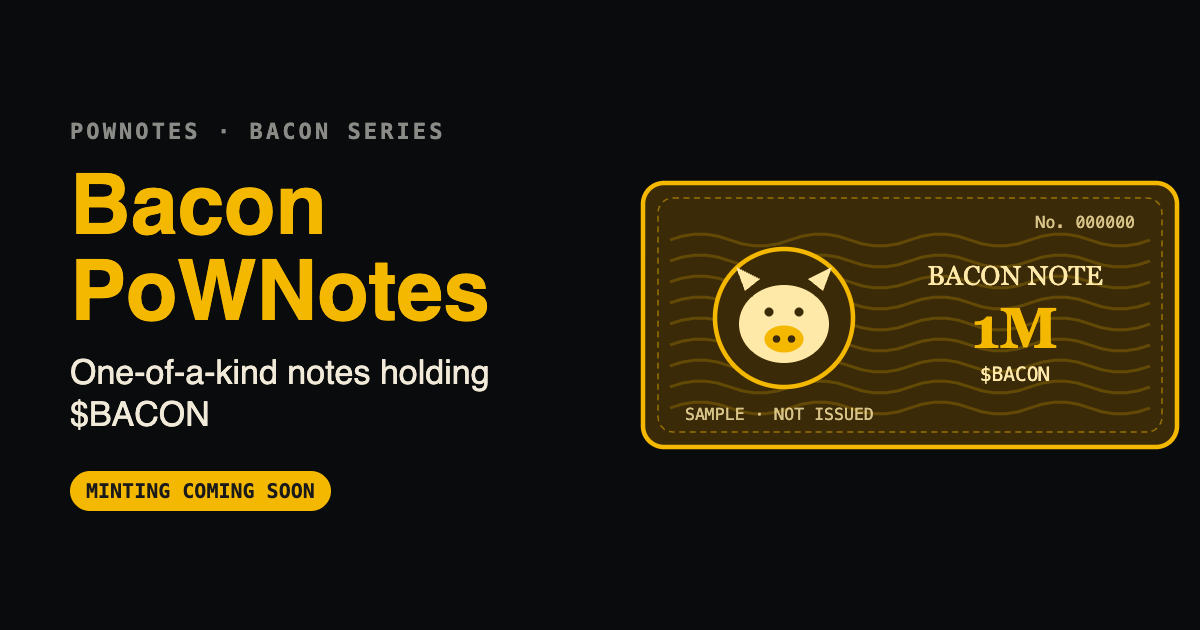
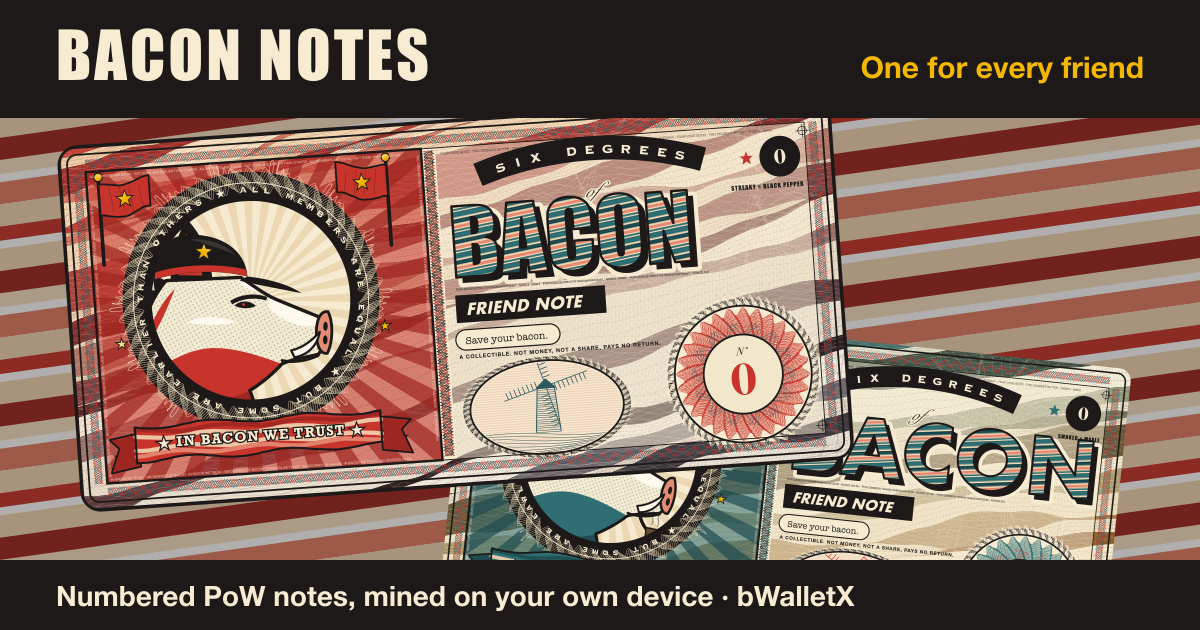
Bacon Notes: one per friend, propaganda-print art, live house samples, new share card (#192)
Drops face values, held $BACON and melting (not the live design). Status lines
match what is live: 10 $BACON on sign-up, notes per friend recorded, minting
coming soon.

diff --git a/pow-notes/bacon.html b/pow-notes/bacon.html
@@ -4,21 +4,21 @@
     <meta charset="utf-8" />
     <meta name="viewport" content="width=device-width, initial-scale=1" />
     <title>Bacon PoWNotes · bWalletX</title>
-    <meta name="description" content="Bacon Notes are one-of-a-kind PoWNotes holding 1K to 1M $BACON, a thank-you for bringing friends to bChatX. Minting coming soon." />
+    <meta name="description" content="Bacon Notes: numbered PoW notes, one for every friend who joins bChatX, and one more for each friend they bring. Mined on your own device. Minting coming soon." />
     <link rel="canonical" href="https://bwalletx.com/pow-notes/bacon" />
     <meta property="og:type" content="website" />
     <meta property="og:url" content="https://bwalletx.com/pow-notes/bacon" />
     <meta property="og:site_name" content="bWalletX" />
     <meta property="og:title" content="Bacon PoWNotes" />
-    <meta property="og:description" content="Bacon Notes are one-of-a-kind PoWNotes holding 1K to 1M $BACON, a thank-you for bringing friends to bChatX. Minting coming soon." />
-    <meta property="og:image" content="https://bwalletx.com/og/og-pow-notes-bacon.png" />
+    <meta property="og:description" content="Bacon Notes: numbered PoW notes, one for every friend who joins bChatX, and one more for each friend they bring. Mined on your own device. Minting coming soon." />
+    <meta property="og:image" content="https://bwalletx.com/og/og-pow-notes-bacon.png?v=2" />
     <meta property="og:image:width" content="1200" />
     <meta property="og:image:height" content="630" />
     <meta name="twitter:card" content="summary_large_image" />
     <meta name="twitter:site" content="@bWalletX" />
     <meta name="twitter:title" content="Bacon PoWNotes" />
-    <meta name="twitter:description" content="Bacon Notes are one-of-a-kind PoWNotes holding 1K to 1M $BACON, a thank-you for bringing friends to bChatX. Minting coming soon." />
-    <meta name="twitter:image" content="https://bwalletx.com/og/og-pow-notes-bacon.png" />
+    <meta name="twitter:description" content="Bacon Notes: numbered PoW notes, one for every friend who joins bChatX, and one more for each friend they bring. Mined on your own device. Minting coming soon." />
+    <meta name="twitter:image" content="https://bwalletx.com/og/og-pow-notes-bacon.png?v=2" />
     <link rel="icon" href="/favicon.ico" />
     <link rel="stylesheet" href="/styles.css" />
     <style>
@@ -72,7 +72,7 @@
     <main class="ext">
       <p class="kicker"><a href="/pow-notes">PoWNotes</a> · Bacon series</p>
       <h1>Bacon <i>PoWNotes</i>.</h1>
-      <p class="lede">One-of-a-kind banknote-style collectibles that hold their own $BACON. You get one for every 6 friends who claim their bChatX profile.</p>
+      <p class="lede">Numbered banknote-style collectibles. You get one Bacon Note for every friend who joins bChatX because of you, and one more each time one of their friends joins.</p>
 <style>.pn-feed{display:grid;grid-template-columns:repeat(auto-fill,minmax(min(100%,220px),1fr));gap:14px;margin:16px 0}.pn-feed>p{grid-column:1/-1}.pn-card{display:block;border:1px solid #ffffff14;border-radius:12px;background:#101114;padding:8px;color:#a7adb8;text-decoration:none;font-size:.82rem}.pn-card img{display:block;width:100%;height:auto;border-radius:8px;background:#0a0b0d;margin-bottom:6px}</style>
       <h2>Fresh from the Mint</h2>
       <div id="pn-feed" class="pn-feed" data-type="bacon-note"><p class="small">Loading…</p></div>
@@ -80,34 +80,40 @@
       <h2>What works today</h2>
       <ul class="status">
         <li><span class="tag live">Live</span><span>Syndicated bChatX profiles with <b>Claim it</b>, at <a href="https://bchatx.com/x/bWalletX">bchatx.com/x/&lt;handle&gt;</a></span></li>
-        <li><span class="tag">Not open yet</span><span>Claim rewards: bring 7 friends</span></li>
         <li><span class="tag live">Live</span><span>$BACON created on chain: 1,000,000,000 supply, held by The Bitcoin Corporation Mint (31 Oct 2026)</span></li>
+        <li><span class="tag live">Live</span><span>10 <a href="/bacon">$BACON</a> when you sign up to bChatX, paid out automatically</span></li>
+        <li><span class="tag live">Live</span><span>Bacon Notes earned for each friend are recorded to your account</span></li>
         <li><span class="tag live">Live</span><span>Bacon Note No. 1 minted: a test note, shown under Fresh from the Mint</span></li>
-        <li><span class="tag">Not open yet</span><span>Earning $BACON and Bacon Notes for friends who claim</span></li>
-        <li><span class="tag">Minting coming soon</span><span>PoWNotes</span></li>
+        <li><span class="tag">Minting coming soon</span><span>Minting your Bacon Notes, once the art is signed off</span></li>
       </ul>
-      <p class="small">$BACON exists and the first test note is minted. Earning them for friends is not open yet. We will tick each line here when it ships.</p>
+      <p class="small">Notes you earn are recorded now and minted when minting opens. We will tick each line here when it ships.</p>
       <div class="notes">
-        <figure><svg viewBox="0 0 360 180" width="360" style="max-width:100%;height:auto" role="img" aria-label="Sample Bacon Note design, 10K $BACON"><rect x="2" y="2" width="356" height="176" rx="14" fill="#2a1512" stroke="#e8a08c" stroke-width="3"/><rect x="12" y="12" width="336" height="156" rx="10" fill="none" stroke="#e8a08c" stroke-opacity=".5" stroke-dasharray="4 3"/><path d="M20 40 q20 -8 40 0 t40 0 t40 0 t40 0 t40 0 t40 0 t40 0 t40 0" fill="none" stroke="#e8a08c" stroke-opacity=".22" stroke-width="2"/><path d="M20 54 q20 -8 40 0 t40 0 t40 0 t40 0 t40 0 t40 0 t40 0 t40 0" fill="none" stroke="#e8a08c" stroke-opacity=".22" stroke-width="2"/><path d="M20 68 q20 -8 40 0 t40 0 t40 0 t40 0 t40 0 t40 0 t40 0 t40 0" fill="none" stroke="#e8a08c" stroke-opacity=".22" stroke-width="2"/><path d="M20 82 q20 -8 40 0 t40 0 t40 0 t40 0 t40 0 t40 0 t40 0 t40 0" fill="none" stroke="#e8a08c" stroke-opacity=".22" stroke-width="2"/><path d="M20 96 q20 -8 40 0 t40 0 t40 0 t40 0 t40 0 t40 0 t40 0 t40 0" fill="none" stroke="#e8a08c" stroke-opacity=".22" stroke-width="2"/><path d="M20 110 q20 -8 40 0 t40 0 t40 0 t40 0 t40 0 t40 0 t40 0 t40 0" fill="none" stroke="#e8a08c" stroke-opacity=".22" stroke-width="2"/><path d="M20 124 q20 -8 40 0 t40 0 t40 0 t40 0 t40 0 t40 0 t40 0 t40 0" fill="none" stroke="#e8a08c" stroke-opacity=".22" stroke-width="2"/><path d="M20 138 q20 -8 40 0 t40 0 t40 0 t40 0 t40 0 t40 0 t40 0 t40 0" fill="none" stroke="#e8a08c" stroke-opacity=".22" stroke-width="2"/><path d="M20 152 q20 -8 40 0 t40 0 t40 0 t40 0 t40 0 t40 0 t40 0 t40 0" fill="none" stroke="#e8a08c" stroke-opacity=".22" stroke-width="2"/><circle cx="96" cy="92" r="46" fill="#2a1512" stroke="#e8a08c" stroke-width="3"/><ellipse cx="96" cy="96" rx="30" ry="26" fill="#f6d3c4"/><path d="M70 74 l-6 -16 l16 8z M122 74 l6 -16 l-16 8z" fill="#f6d3c4"/><ellipse cx="96" cy="106" rx="13" ry="9" fill="#e8a08c"/><circle cx="91" cy="106" r="2.5" fill="#2a1512"/><circle cx="101" cy="106" r="2.5" fill="#2a1512"/><circle cx="86" cy="88" r="3" fill="#2a1512"/><circle cx="106" cy="88" r="3" fill="#2a1512"/><text x="250" y="70" text-anchor="middle" font-family="Georgia,serif" font-size="18" fill="#f6d3c4">BACON NOTE</text><text x="250" y="112" text-anchor="middle" font-family="Georgia,serif" font-weight="700" font-size="38" fill="#e8a08c">10K</text><text x="250" y="134" text-anchor="middle" font-family="monospace" font-size="13" fill="#f6d3c4">$BACON</text><text x="30" y="160" font-family="monospace" font-size="11" fill="#f6d3c4" fill-opacity=".8">SAMPLE · NOT ISSUED</text><text x="330" y="32" text-anchor="end" font-family="monospace" font-size="11" fill="#f6d3c4" fill-opacity=".8">No. 000000</text></svg><figcaption>A sample design. Real notes carry their own serial.</figcaption></figure>
-        <figure><svg viewBox="0 0 360 180" width="360" style="max-width:100%;height:auto" role="img" aria-label="Sample Bacon Note design, 1M $BACON"><rect x="2" y="2" width="356" height="176" rx="14" fill="#3a2a08" stroke="#F5B800" stroke-width="3"/><rect x="12" y="12" width="336" height="156" rx="10" fill="none" stroke="#F5B800" stroke-opacity=".5" stroke-dasharray="4 3"/><path d="M20 40 q20 -8 40 0 t40 0 t40 0 t40 0 t40 0 t40 0 t40 0 t40 0" fill="none" stroke="#F5B800" stroke-opacity=".22" stroke-width="2"/><path d="M20 54 q20 -8 40 0 t40 0 t40 0 t40 0 t40 0 t40 0 t40 0 t40 0" fill="none" stroke="#F5B800" stroke-opacity=".22" stroke-width="2"/><path d="M20 68 q20 -8 40 0 t40 0 t40 0 t40 0 t40 0 t40 0 t40 0 t40 0" fill="none" stroke="#F5B800" stroke-opacity=".22" stroke-width="2"/><path d="M20 82 q20 -8 40 0 t40 0 t40 0 t40 0 t40 0 t40 0 t40 0 t40 0" fill="none" stroke="#F5B800" stroke-opacity=".22" stroke-width="2"/><path d="M20 96 q20 -8 40 0 t40 0 t40 0 t40 0 t40 0 t40 0 t40 0 t40 0" fill="none" stroke="#F5B800" stroke-opacity=".22" stroke-width="2"/><path d="M20 110 q20 -8 40 0 t40 0 t40 0 t40 0 t40 0 t40 0 t40 0 t40 0" fill="none" stroke="#F5B800" stroke-opacity=".22" stroke-width="2"/><path d="M20 124 q20 -8 40 0 t40 0 t40 0 t40 0 t40 0 t40 0 t40 0 t40 0" fill="none" stroke="#F5B800" stroke-opacity=".22" stroke-width="2"/><path d="M20 138 q20 -8 40 0 t40 0 t40 0 t40 0 t40 0 t40 0 t40 0 t40 0" fill="none" stroke="#F5B800" stroke-opacity=".22" stroke-width="2"/><path d="M20 152 q20 -8 40 0 t40 0 t40 0 t40 0 t40 0 t40 0 t40 0 t40 0" fill="none" stroke="#F5B800" stroke-opacity=".22" stroke-width="2"/><circle cx="96" cy="92" r="46" fill="#3a2a08" stroke="#F5B800" stroke-width="3"/><ellipse cx="96" cy="96" rx="30" ry="26" fill="#ffe9a8"/><path d="M70 74 l-6 -16 l16 8z M122 74 l6 -16 l-16 8z" fill="#ffe9a8"/><ellipse cx="96" cy="106" rx="13" ry="9" fill="#F5B800"/><circle cx="91" cy="106" r="2.5" fill="#3a2a08"/><circle cx="101" cy="106" r="2.5" fill="#3a2a08"/><circle cx="86" cy="88" r="3" fill="#3a2a08"/><circle cx="106" cy="88" r="3" fill="#3a2a08"/><text x="250" y="70" text-anchor="middle" font-family="Georgia,serif" font-size="18" fill="#ffe9a8">BACON NOTE</text><text x="250" y="112" text-anchor="middle" font-family="Georgia,serif" font-weight="700" font-size="38" fill="#F5B800">1M</text><text x="250" y="134" text-anchor="middle" font-family="monospace" font-size="13" fill="#ffe9a8">$BACON</text><text x="30" y="160" font-family="monospace" font-size="11" fill="#ffe9a8" fill-opacity=".8">SAMPLE · NOT ISSUED</text><text x="330" y="32" text-anchor="end" font-family="monospace" font-size="11" fill="#ffe9a8" fill-opacity=".8">No. 000000</text></svg><figcaption>A sample golden note. Golden and misprint notes are rare.</figcaption></figure>
+        <figure><img src="https://www.bchatx.com/api/bacon/showcase?n=0" alt="Bacon Note, house sample 1 of 6" width="600" height="300" loading="lazy" style="width:100%;height:auto;border-radius:10px" /></figure>
+        <figure><img src="https://www.bchatx.com/api/bacon/showcase?n=1" alt="Bacon Note, house sample 2 of 6" width="600" height="300" loading="lazy" style="width:100%;height:auto;border-radius:10px" /></figure>
+        <figure><img src="https://www.bchatx.com/api/bacon/showcase?n=2" alt="Bacon Note, house sample 3 of 6" width="600" height="300" loading="lazy" style="width:100%;height:auto;border-radius:10px" /></figure>
+        <figure><img src="https://www.bchatx.com/api/bacon/showcase?n=3" alt="Bacon Note, house sample 4 of 6" width="600" height="300" loading="lazy" style="width:100%;height:auto;border-radius:10px" /></figure>
+        <figure><img src="https://www.bchatx.com/api/bacon/showcase?n=4" alt="Bacon Note, house sample 5 of 6" width="600" height="300" loading="lazy" style="width:100%;height:auto;border-radius:10px" /></figure>
+        <figure><img src="https://www.bchatx.com/api/bacon/showcase?n=5" alt="Bacon Note, house sample 6 of 6" width="600" height="300" loading="lazy" style="width:100%;height:auto;border-radius:10px" /></figure>
       </div>
+      <p class="small">Six real house notes, all No. 0, drawn by the same generator your notes use.</p>
       <h2>The design</h2>
       <ul>
-        <li>Rasher guilloche and filigree, a pig portrait and a serial number.</li>
-        <li>Face values: 1K, 10K, 100K and 1M <a href="/bacon">$BACON</a>.</li>
-        <li>Rare golden notes and misprints.</li>
+        <li>A propaganda-print banknote, screen-printed on streaky bacon. The Leader, a boar, wears a cap, beret, ushanka or top hat.</li>
+        <li>Six colourways blended in pairs and eight typefaces, so no two notes look quite alike.</li>
+        <li>Golden notes turn up 1 in 50, misprints 1 in 100.</li>
+        <li>Every Bacon Note is the same kind of note. Only its number and its art differ. Numbers go first come, first served.</li>
       </ul>
       <h2>How a PoWNote works</h2>
       <ul>
-        <li><b>It holds its value.</b> Each note is a 1Sat NFT, and its coin holds the note&rsquo;s $BACON.</li>
-        <li><b>Send it like cash.</b> When you send a note, the person you send it to gets a new edition, and you keep a shell with no value in it.</li>
-        <li><b>Melt it.</b> Melting a note returns the value it holds.</li>
+        <li><b>Mined on your device.</b> Your own phone or computer mines the proof of work for your note.</li>
+        <li><b>The hash draws the art.</b> The proof-of-work hash seeds the design, so the picture comes from your own work.</li>
+        <li><b>A collectible.</b> Each note is a 1Sat NFT. It is not money, not a share, and pays no return.</li>
         <li><b>Yours alone.</b> Once a note is issued, only the holder controls it. We cannot move it for you.</li>
       </ul>
       <h2>How you know a note is genuine</h2>
       <p>Official PoWNotes, including Bacon Notes, are issued only by The Bitcoin Corporation Mint. That is how you know they are genuine.</p>
       <ul>
-        <li>The Mint signs each note&rsquo;s origin, serial and face value together.</li>
+        <li>The Mint signs each note&rsquo;s origin and serial together.</li>
         <li>A note is genuine only if its on-chain origin is in the Mint&rsquo;s signed registry.</li>
         <li>Copies and duplicate serials are refused.</li>
         <li>Fakes are never delivered, never shown as genuine and never listed on our markets. If one is shown at all, it carries the label &ldquo;Not issued by The Bitcoin Corporation Mint&rdquo;.</li>

diff --git a/bacon.html b/bacon.html
@@ -89,16 +89,16 @@
       <h2>$BACON</h2>
       <p>$BACON is a BSV-21 memecoin with a supply of 1,000,000,000. You get $BACON for each friend you bring who claims their profile. It is a collectible and a thank-you, nothing more.</p>
       <h2>Bacon Notes</h2>
-      <p>Bacon Notes are one-of-a-kind, banknote-style collectibles. You get one for every 6 friends who claim their profile.</p>
+      <p>Bacon Notes are numbered, banknote-style collectibles. You get one for every friend who joins bChatX because of you, and one more each time one of their friends joins.</p>
       <ul>
-        <li>Rasher guilloche and filigree, a pig portrait and a serial number on every note.</li>
-        <li>Face values of 1K, 10K, 100K and 1M $BACON.</li>
-        <li>Rare golden notes and misprints.</li>
-        <li>Each note holds its $BACON, just like a <a href="/pow-notes">PoWNote</a>.</li>
+        <li>A propaganda-print banknote on streaky bacon, with the Leader, a boar, in a cap, beret, ushanka or top hat.</li>
+        <li>Mined on your own device: the proof-of-work hash seeds the art.</li>
+        <li>Golden notes 1 in 50, misprints 1 in 100. Every note is the same kind of note; only the number and the art differ.</li>
+        <li>Minting coming soon. See <a href="/pow-notes/bacon">Bacon Notes</a>.</li>
       </ul>
       <div class="notes">
-        <figure><svg viewBox="0 0 360 180" width="360" style="max-width:100%;height:auto" role="img" aria-label="Sample Bacon Note design, 10K $BACON"><rect x="2" y="2" width="356" height="176" rx="14" fill="#2a1512" stroke="#e8a08c" stroke-width="3"/><rect x="12" y="12" width="336" height="156" rx="10" fill="none" stroke="#e8a08c" stroke-opacity=".5" stroke-dasharray="4 3"/><path d="M20 40 q20 -8 40 0 t40 0 t40 0 t40 0 t40 0 t40 0 t40 0 t40 0" fill="none" stroke="#e8a08c" stroke-opacity=".22" stroke-width="2"/><path d="M20 54 q20 -8 40 0 t40 0 t40 0 t40 0 t40 0 t40 0 t40 0 t40 0" fill="none" stroke="#e8a08c" stroke-opacity=".22" stroke-width="2"/><path d="M20 68 q20 -8 40 0 t40 0 t40 0 t40 0 t40 0 t40 0 t40 0 t40 0" fill="none" stroke="#e8a08c" stroke-opacity=".22" stroke-width="2"/><path d="M20 82 q20 -8 40 0 t40 0 t40 0 t40 0 t40 0 t40 0 t40 0 t40 0" fill="none" stroke="#e8a08c" stroke-opacity=".22" stroke-width="2"/><path d="M20 96 q20 -8 40 0 t40 0 t40 0 t40 0 t40 0 t40 0 t40 0 t40 0" fill="none" stroke="#e8a08c" stroke-opacity=".22" stroke-width="2"/><path d="M20 110 q20 -8 40 0 t40 0 t40 0 t40 0 t40 0 t40 0 t40 0 t40 0" fill="none" stroke="#e8a08c" stroke-opacity=".22" stroke-width="2"/><path d="M20 124 q20 -8 40 0 t40 0 t40 0 t40 0 t40 0 t40 0 t40 0 t40 0" fill="none" stroke="#e8a08c" stroke-opacity=".22" stroke-width="2"/><path d="M20 138 q20 -8 40 0 t40 0 t40 0 t40 0 t40 0 t40 0 t40 0 t40 0" fill="none" stroke="#e8a08c" stroke-opacity=".22" stroke-width="2"/><path d="M20 152 q20 -8 40 0 t40 0 t40 0 t40 0 t40 0 t40 0 t40 0 t40 0" fill="none" stroke="#e8a08c" stroke-opacity=".22" stroke-width="2"/><circle cx="96" cy="92" r="46" fill="#2a1512" stroke="#e8a08c" stroke-width="3"/><ellipse cx="96" cy="96" rx="30" ry="26" fill="#f6d3c4"/><path d="M70 74 l-6 -16 l16 8z M122 74 l6 -16 l-16 8z" fill="#f6d3c4"/><ellipse cx="96" cy="106" rx="13" ry="9" fill="#e8a08c"/><circle cx="91" cy="106" r="2.5" fill="#2a1512"/><circle cx="101" cy="106" r="2.5" fill="#2a1512"/><circle cx="86" cy="88" r="3" fill="#2a1512"/><circle cx="106" cy="88" r="3" fill="#2a1512"/><text x="250" y="70" text-anchor="middle" font-family="Georgia,serif" font-size="18" fill="#f6d3c4">BACON NOTE</text><text x="250" y="112" text-anchor="middle" font-family="Georgia,serif" font-weight="700" font-size="38" fill="#e8a08c">10K</text><text x="250" y="134" text-anchor="middle" font-family="monospace" font-size="13" fill="#f6d3c4">$BACON</text><text x="30" y="160" font-family="monospace" font-size="11" fill="#f6d3c4" fill-opacity=".8">SAMPLE · NOT ISSUED</text><text x="330" y="32" text-anchor="end" font-family="monospace" font-size="11" fill="#f6d3c4" fill-opacity=".8">No. 000000</text></svg><figcaption>A sample design. Real notes carry their own serial.</figcaption></figure>
-        <figure><svg viewBox="0 0 360 180" width="360" style="max-width:100%;height:auto" role="img" aria-label="Sample Bacon Note design, 1M $BACON"><rect x="2" y="2" width="356" height="176" rx="14" fill="#3a2a08" stroke="#F5B800" stroke-width="3"/><rect x="12" y="12" width="336" height="156" rx="10" fill="none" stroke="#F5B800" stroke-opacity=".5" stroke-dasharray="4 3"/><path d="M20 40 q20 -8 40 0 t40 0 t40 0 t40 0 t40 0 t40 0 t40 0 t40 0" fill="none" stroke="#F5B800" stroke-opacity=".22" stroke-width="2"/><path d="M20 54 q20 -8 40 0 t40 0 t40 0 t40 0 t40 0 t40 0 t40 0 t40 0" fill="none" stroke="#F5B800" stroke-opacity=".22" stroke-width="2"/><path d="M20 68 q20 -8 40 0 t40 0 t40 0 t40 0 t40 0 t40 0 t40 0 t40 0" fill="none" stroke="#F5B800" stroke-opacity=".22" stroke-width="2"/><path d="M20 82 q20 -8 40 0 t40 0 t40 0 t40 0 t40 0 t40 0 t40 0 t40 0" fill="none" stroke="#F5B800" stroke-opacity=".22" stroke-width="2"/><path d="M20 96 q20 -8 40 0 t40 0 t40 0 t40 0 t40 0 t40 0 t40 0 t40 0" fill="none" stroke="#F5B800" stroke-opacity=".22" stroke-width="2"/><path d="M20 110 q20 -8 40 0 t40 0 t40 0 t40 0 t40 0 t40 0 t40 0 t40 0" fill="none" stroke="#F5B800" stroke-opacity=".22" stroke-width="2"/><path d="M20 124 q20 -8 40 0 t40 0 t40 0 t40 0 t40 0 t40 0 t40 0 t40 0" fill="none" stroke="#F5B800" stroke-opacity=".22" stroke-width="2"/><path d="M20 138 q20 -8 40 0 t40 0 t40 0 t40 0 t40 0 t40 0 t40 0 t40 0" fill="none" stroke="#F5B800" stroke-opacity=".22" stroke-width="2"/><path d="M20 152 q20 -8 40 0 t40 0 t40 0 t40 0 t40 0 t40 0 t40 0 t40 0" fill="none" stroke="#F5B800" stroke-opacity=".22" stroke-width="2"/><circle cx="96" cy="92" r="46" fill="#3a2a08" stroke="#F5B800" stroke-width="3"/><ellipse cx="96" cy="96" rx="30" ry="26" fill="#ffe9a8"/><path d="M70 74 l-6 -16 l16 8z M122 74 l6 -16 l-16 8z" fill="#ffe9a8"/><ellipse cx="96" cy="106" rx="13" ry="9" fill="#F5B800"/><circle cx="91" cy="106" r="2.5" fill="#3a2a08"/><circle cx="101" cy="106" r="2.5" fill="#3a2a08"/><circle cx="86" cy="88" r="3" fill="#3a2a08"/><circle cx="106" cy="88" r="3" fill="#3a2a08"/><text x="250" y="70" text-anchor="middle" font-family="Georgia,serif" font-size="18" fill="#ffe9a8">BACON NOTE</text><text x="250" y="112" text-anchor="middle" font-family="Georgia,serif" font-weight="700" font-size="38" fill="#F5B800">1M</text><text x="250" y="134" text-anchor="middle" font-family="monospace" font-size="13" fill="#ffe9a8">$BACON</text><text x="30" y="160" font-family="monospace" font-size="11" fill="#ffe9a8" fill-opacity=".8">SAMPLE · NOT ISSUED</text><text x="330" y="32" text-anchor="end" font-family="monospace" font-size="11" fill="#ffe9a8" fill-opacity=".8">No. 000000</text></svg><figcaption>A sample golden note. Golden and misprint notes are rare.</figcaption></figure>
+        <figure><img src="https://www.bchatx.com/api/bacon/showcase?n=0" alt="Bacon Note, house sample 1" width="600" height="300" loading="lazy" style="width:100%;height:auto;border-radius:10px" /></figure>
+        <figure><img src="https://www.bchatx.com/api/bacon/showcase?n=1" alt="Bacon Note, house sample 2" width="600" height="300" loading="lazy" style="width:100%;height:auto;border-radius:10px" /></figure>
       </div>
       <p class="small">More: <a href="/pow-notes">PoWNotes</a> · <a href="/pow-notes/bacon">Bacon PoWNotes</a> · <a href="/blog/106-bacon-pownotes">Blog 106</a></p>
       <a class="fam" href="/b-family"><img src="/logo.svg" alt="" width="34" height="30" /><div><b>Part of the bWalletX family</b><br /><span>See every b app and what works today &rarr;</span></div></a>
